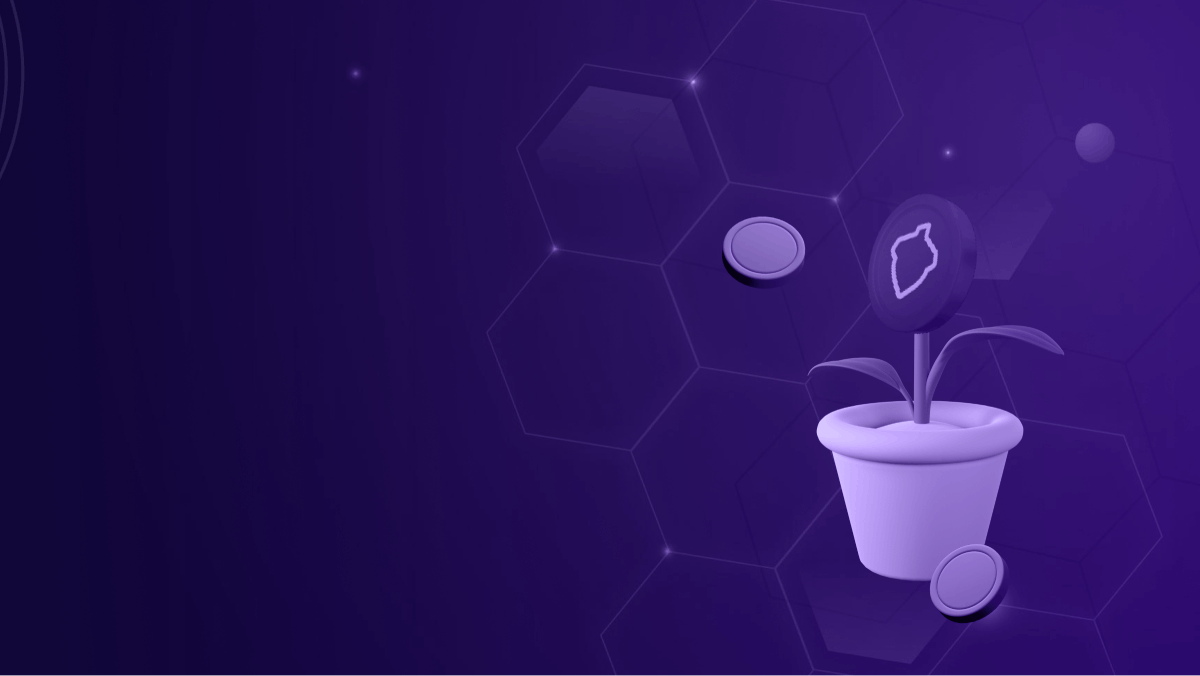
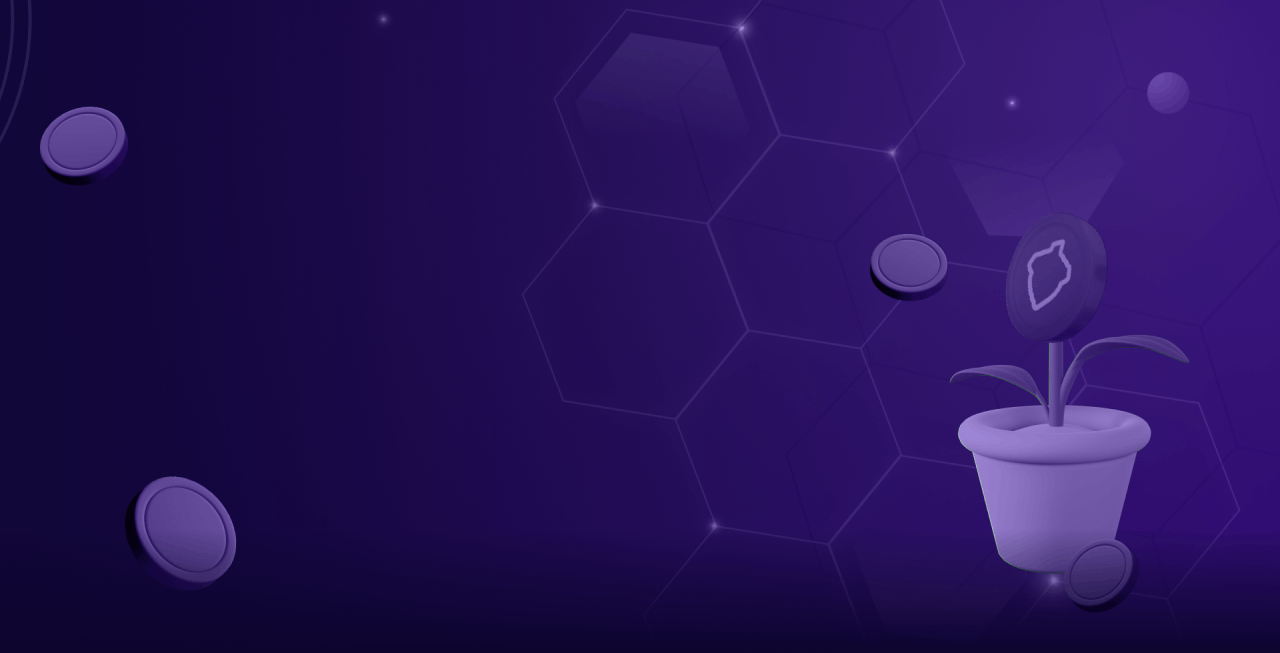
update bgs

diff --git a/src/views/Pools/index.tsx b/src/views/Pools/index.tsx
@@ -266,7 +266,7 @@ const Pools: React.FC = () => {
   return (
     <>
       <MigrationNoticeModal />
-      <PageWrapper bgUrl="/images/farm/bg.png">
+      <PageWrapper bgUrl="/images/pool/bg.png">
         <PageHeader background="#0000">
           <Flex justifyContent="space-between" flexDirection={['column', null, null, 'row']}>
             <Flex flex="1" flexDirection="column" mr={['8px', 0]}>

diff --git a/src/views/Info/index.tsx b/src/views/Info/index.tsx
@@ -21,7 +21,7 @@ const PageWrapper = styled.div<{ bgUrl: string }>`
 
 export const InfoPageLayout = ({ children }) => {
   return (
-    <PageWrapper bgUrl="/images/info/bg.png">
+    <PageWrapper bgUrl="/images/info/bg.svg">
       <ProtocolUpdater />
       <PoolUpdater />
       <TokenUpdater />

diff --git a/src/views/WagBurn/index.tsx b/src/views/WagBurn/index.tsx
@@ -107,7 +107,7 @@ export default function WagBurn() {
   }, [])
 
   return (
-    <Page bgUrl="/images/swap/bg.png">
+    <Page bgUrl="/images/info/bg.svg">
       <Body>
         <SupplyContainer>
           <Supply burn={burn} />
